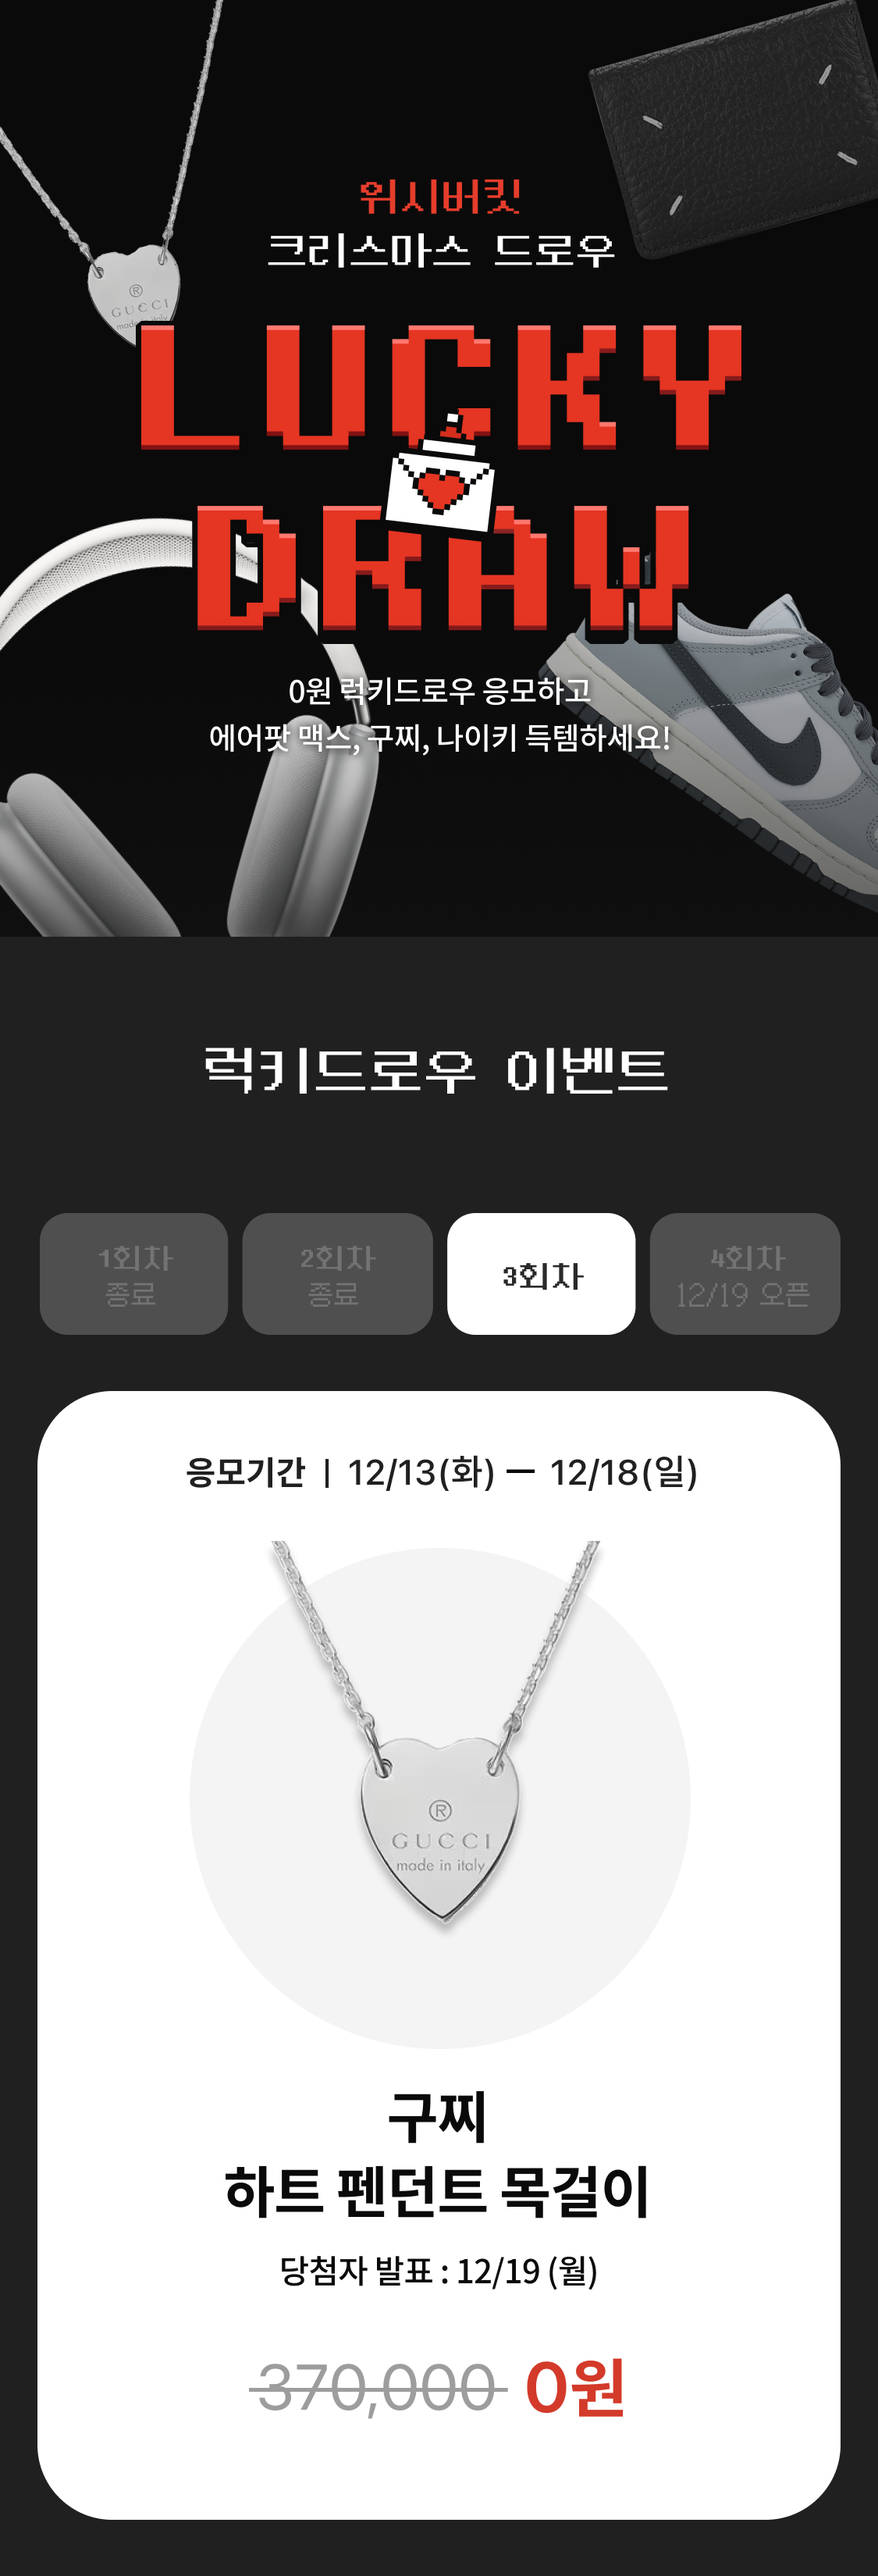
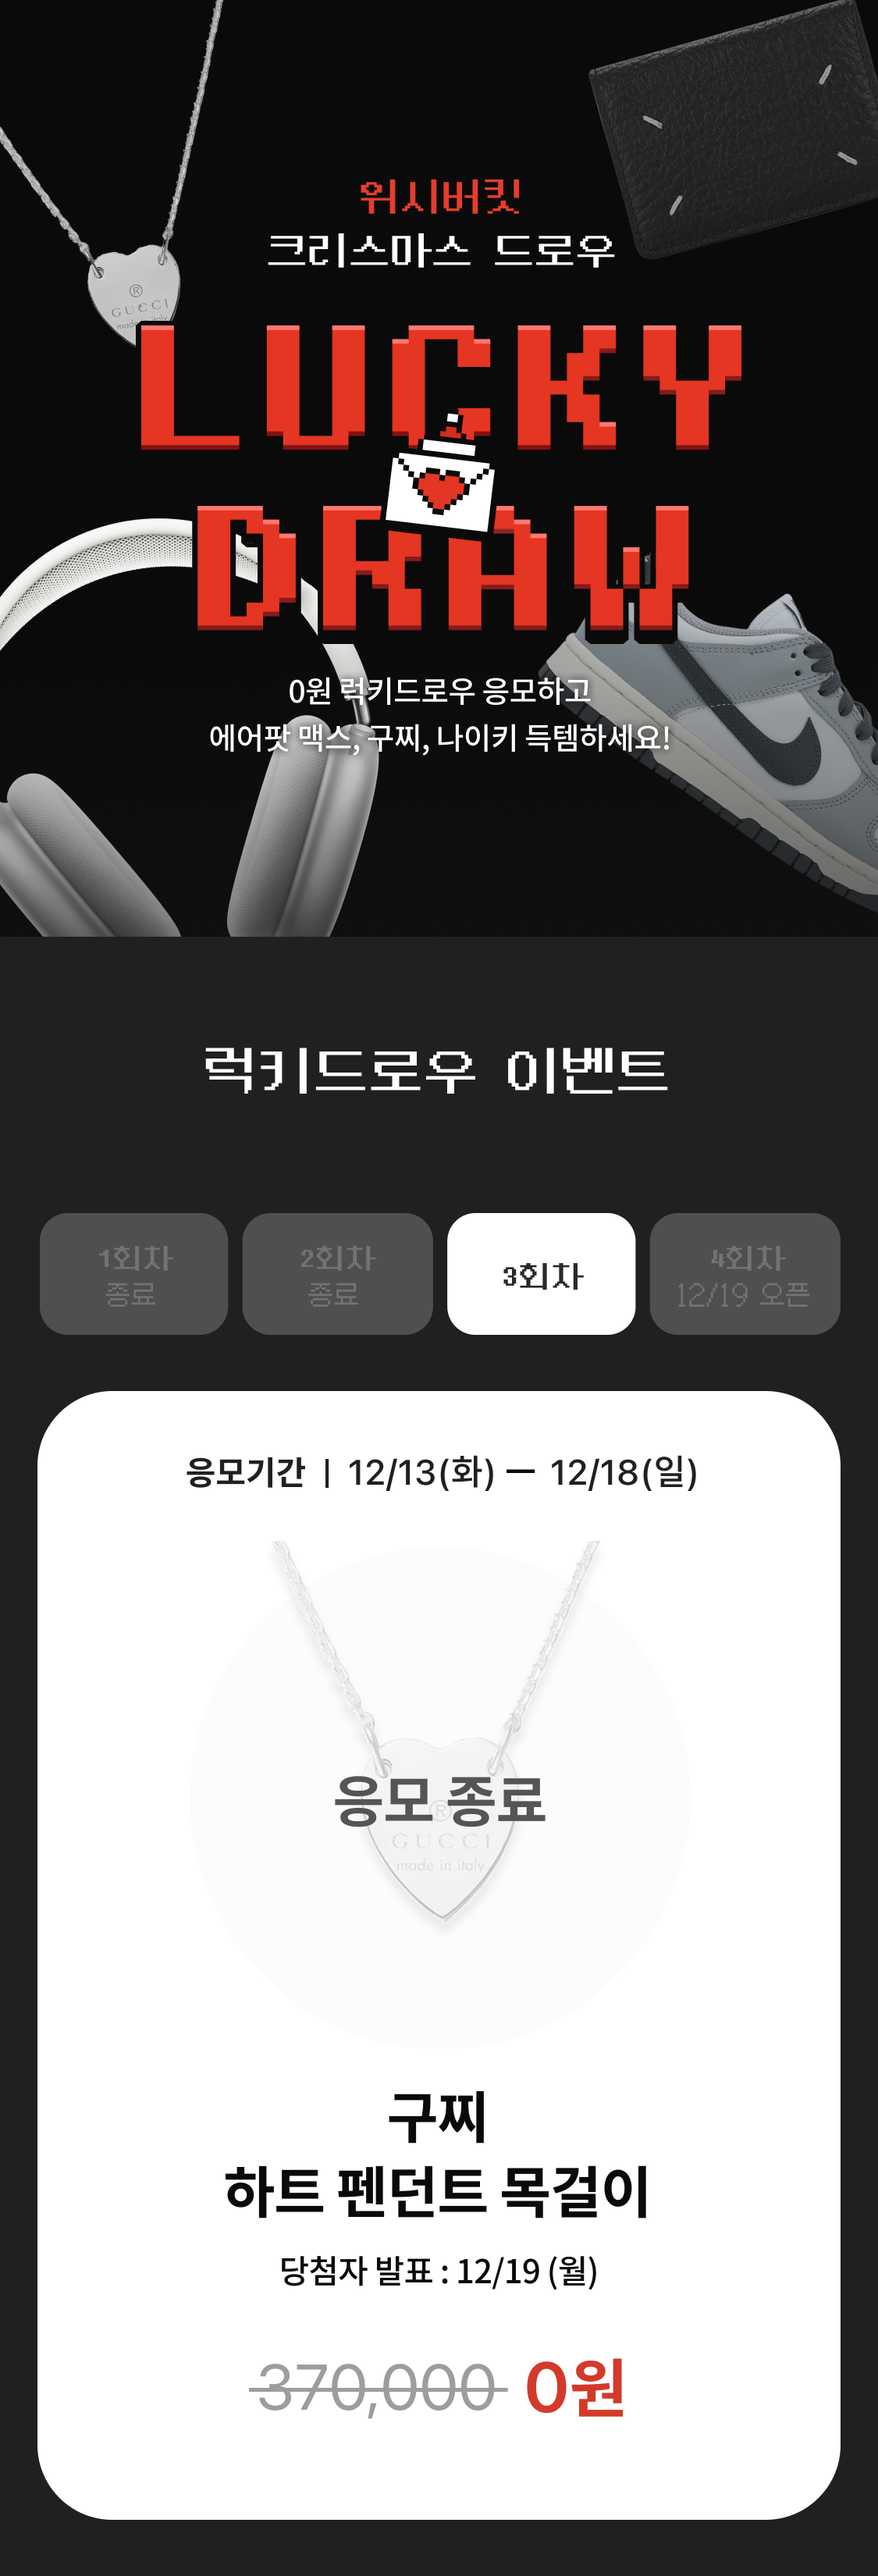
changed img

Changed region(s): [[0.3422, 0.6242, 0.6533, 0.7491], [0.6533, 0.593, 0.6844, 0.6242], [0.3111, 0.593, 0.3422, 0.6242]]

diff --git a/xmasEvent_2022/firstEvent.html b/xmasEvent_2022/firstEvent.html
@@ -17,11 +17,11 @@
 	<div class="subEventSection">
 		<!-- 이미지 -->
 		<div class="image">
-			<img class= "img" src="files/raffle_intro_3.png" alt="firstimg">
+			<img class= "img" src="files/raffle_intro_4.png" alt="firstimg">
 		</div>
 
 		<!--하단 버튼-->
-		<a class="img" id="btn" href="https://app.wishbucket.io/promo20" target="_blank">
+		<a class="img" id="btn" href="https://app.wishbucket.io/promo21" target="_blank">
 	     		 <img class="btn_img" src="files/eventBtn.png"/>
 	  	</a>
   	</div>	
@@ -39,8 +39,8 @@
 		<div class="itemSchedule">
 			<a class="image"><img class= "scheduleImg" src="files/raffleItem01_closed.png" alt="secondimg"></a>
 			<a class="image"><img class= "scheduleImg" src="files/raffleItem02_closed.png" alt="secondimg"></a>
-			<a class="image"><img class= "scheduleImg" src="files/raffleItem03_open.png" alt="secondimg"></a>
-			<a class="image"><img class= "scheduleImg" src="files/raffleItem04_pre.png" alt="secondimg"></a>	
+			<a class="image"><img class= "scheduleImg" src="files/raffleItem03_closed.png" alt="secondimg"></a>
+			<a class="image"><img class= "scheduleImg" src="files/raffleItem04_open.png" alt="secondimg"></a>	
 		</div>	
 
 
@@ -62,18 +62,18 @@
 	<div class="subEventSection">
 		<!-- 이미지 -->
 		<div class="image">
-			<img class= "img" src="files/raffle03-3.png" alt="thirdimg">
+			<img class= "img" src="files/raffle03-4.png" alt="thirdimg">
 		</div>
 
 		
 		<!--시크릿딜 버튼-->
 		<div class="secretdeal">
-			<a class="sdcard" id="sdcard1" href="https://app.wishbucket.io/deals" target="_blank"> <img class="card_img" src="files/secretdeal3-01.png"/></a>
-			<a class="sdcard" id="sdcard2" href="https://app.wishbucket.io/deals" target="_blank"> <img class="card_img" src="files/secretdeal3-02.png"/></a>
-			<a class="sdcard" id="sdcard3" href="https://app.wishbucket.io/deals" target="_blank"> <img class="card_img" src="files/secretdeal3-03.png"/></a>
-			<a class="sdcard" id="sdcard4" href="https://app.wishbucket.io/deals" target="_blank"> <img class="card_img" src="files/secretdeal3-04.png"/></a>
-			<a class="sdcard" id="sdcard5" href="https://app.wishbucket.io/deals" target="_blank"> <img class="card_img" src="files/secretdeal3-05.png"/></a>
-			<a class="sdcard" id="sdcard6" href="https://app.wishbucket.io/deals" target="_blank"> <img class="card_img" src="files/secretdeal3-06.png"/></a>
+			<a class="sdcard" id="sdcard1" href="https://app.wishbucket.io/deals" target="_blank"> <img class="card_img" src="files/secretdeal4-01.png"/></a>
+			<a class="sdcard" id="sdcard2" href="https://app.wishbucket.io/deals" target="_blank"> <img class="card_img" src="files/secretdeal4-02.png"/></a>
+			<a class="sdcard" id="sdcard3" href="https://app.wishbucket.io/deals" target="_blank"> <img class="card_img" src="files/secretdeal4-03.png"/></a>
+			<a class="sdcard" id="sdcard4" href="https://app.wishbucket.io/deals" target="_blank"> <img class="card_img" src="files/secretdeal4-04.png"/></a>
+			<a class="sdcard" id="sdcard5" href="https://app.wishbucket.io/deals" target="_blank"> <img class="card_img" src="files/secretdeal4-05.png"/></a>
+			<a class="sdcard" id="sdcard6" href="https://app.wishbucket.io/deals" target="_blank"> <img class="card_img" src="files/secretdeal4-06.png"/></a>
 		</div>
 
 

diff --git a/xmasEvent_2022/rafflePromo_01.html b/xmasEvent_2022/rafflePromo_01.html
@@ -23,7 +23,7 @@
   	</div>	
 
   	<!--하단 버튼-->
-		<a class="img" id="btn" href="https://app.wishbucket.io/promo20">
+		<a class="img" id="btn" href="https://app.wishbucket.io/promo21">
 	     		 <img class="btn_img" src="files/nextRaffle.png"/>
 	  	</a>
 
@@ -39,10 +39,10 @@
 
 		<!-- 스케쥴 아이템 섹션 -->
 		<div class="itemSchedule">
-			<a class="image"><img class= "scheduleImg" src="files/raffleItem01_open.png" alt="secondimg"></a>
-			<a class="image"><img class= "scheduleImg" src="files/raffleItem02_pre.png" alt="secondimg"></a>
-			<a class="image"><img class= "scheduleImg" src="files/raffleItem03_pre.png" alt="secondimg"></a>
-			<a class="image"><img class= "scheduleImg" src="files/raffleItem04_pre.png" alt="secondimg"></a>	
+			<a class="image"><img class= "scheduleImg" src="files/raffleItem01_closed.png" alt="secondimg"></a>
+			<a class="image"><img class= "scheduleImg" src="files/raffleItem02_closed.png" alt="secondimg"></a>
+			<a class="image"><img class= "scheduleImg" src="files/raffleItem03_closed.png" alt="secondimg"></a>
+			<a class="image"><img class= "scheduleImg" src="files/raffleItem04_open.png" alt="secondimg"></a>	
 		</div>	
 
 

diff --git a/xmasEvent_2022/rafflePromo_03.html b/xmasEvent_2022/rafflePromo_03.html
@@ -1,4 +1,4 @@
-<html>
+	<html>
 <head>
 	<link href="style.css" rel="stylesheet">
 	<meta property="og:title" content="&#127876;위시버킷 크리스마스 이벤트&#127876;">
@@ -22,6 +22,11 @@
 
   	</div>	
 
+	<!--하단 버튼-->
+		<a class="img" id="btn" href="https://app.wishbucket.io/promo21">
+	     		 <img class="btn_img" src="files/nextRaffle.png"/>
+	  	</a>
+
 
 	<!-- 럭키드로우 스케쥴 / 팁 -->	
 
@@ -35,8 +40,8 @@
 		<div class="itemSchedule">
 			<a class="image"><img class= "scheduleImg" src="files/raffleItem01_closed.png" alt="secondimg"></a>
 			<a class="image"><img class= "scheduleImg" src="files/raffleItem02_closed.png" alt="secondimg"></a>
-			<a class="image"><img class= "scheduleImg" src="files/raffleItem03_open.png" alt="secondimg"></a>
-			<a class="image"><img class= "scheduleImg" src="files/raffleItem04_pre.png" alt="secondimg"></a>	
+			<a class="image"><img class= "scheduleImg" src="files/raffleItem03_closed.png" alt="secondimg"></a>
+			<a class="image"><img class= "scheduleImg" src="files/raffleItem04_open.png" alt="secondimg"></a>	
 		</div>	
 
 

diff --git a/xmasEvent_2022/rafflePromo_02.html b/xmasEvent_2022/rafflePromo_02.html
@@ -24,7 +24,7 @@
 
 
 	<!--하단 버튼-->
-		<a class="img" id="btn" href="https://app.wishbucket.io/promo20">
+		<a class="img" id="btn" href="https://app.wishbucket.io/promo21">
 	     		 <img class="btn_img" src="files/nextRaffle.png"/>
 	  	</a>
 
@@ -42,9 +42,9 @@
 		<!-- 스케쥴 아이템 섹션 -->
 		<div class="itemSchedule">
 			<a class="image"><img class= "scheduleImg" src="files/raffleItem01_closed.png" alt="secondimg"></a>
-			<a class="image"><img class= "scheduleImg" src="files/raffleItem02_open.png" alt="secondimg"></a>
-			<a class="image"><img class= "scheduleImg" src="files/raffleItem03_pre.png" alt="secondimg"></a>
-			<a class="image"><img class= "scheduleImg" src="files/raffleItem04_pre.png" alt="secondimg"></a>	
+			<a class="image"><img class= "scheduleImg" src="files/raffleItem02_closed.png" alt="secondimg"></a>
+			<a class="image"><img class= "scheduleImg" src="files/raffleItem03_closed.png" alt="secondimg"></a>
+			<a class="image"><img class= "scheduleImg" src="files/raffleItem04_open.png" alt="secondimg"></a>	
 		</div>	
 
 
